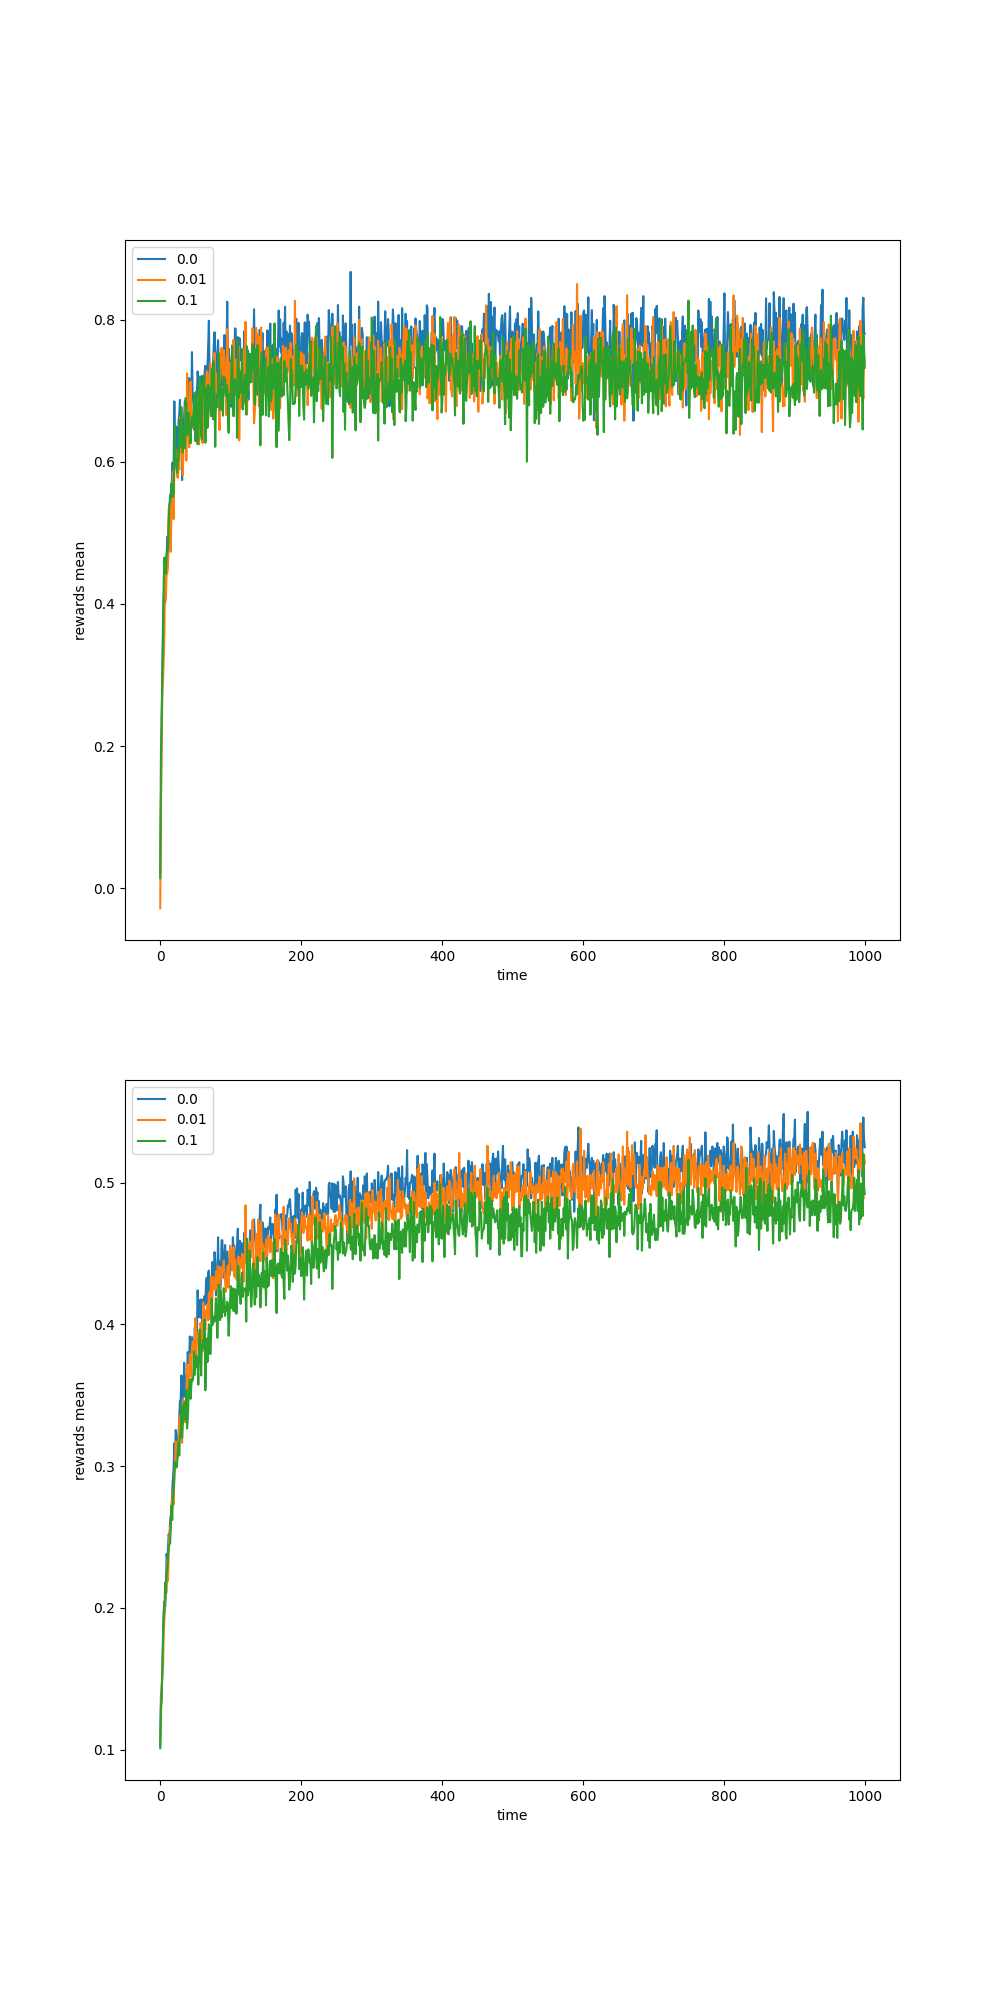
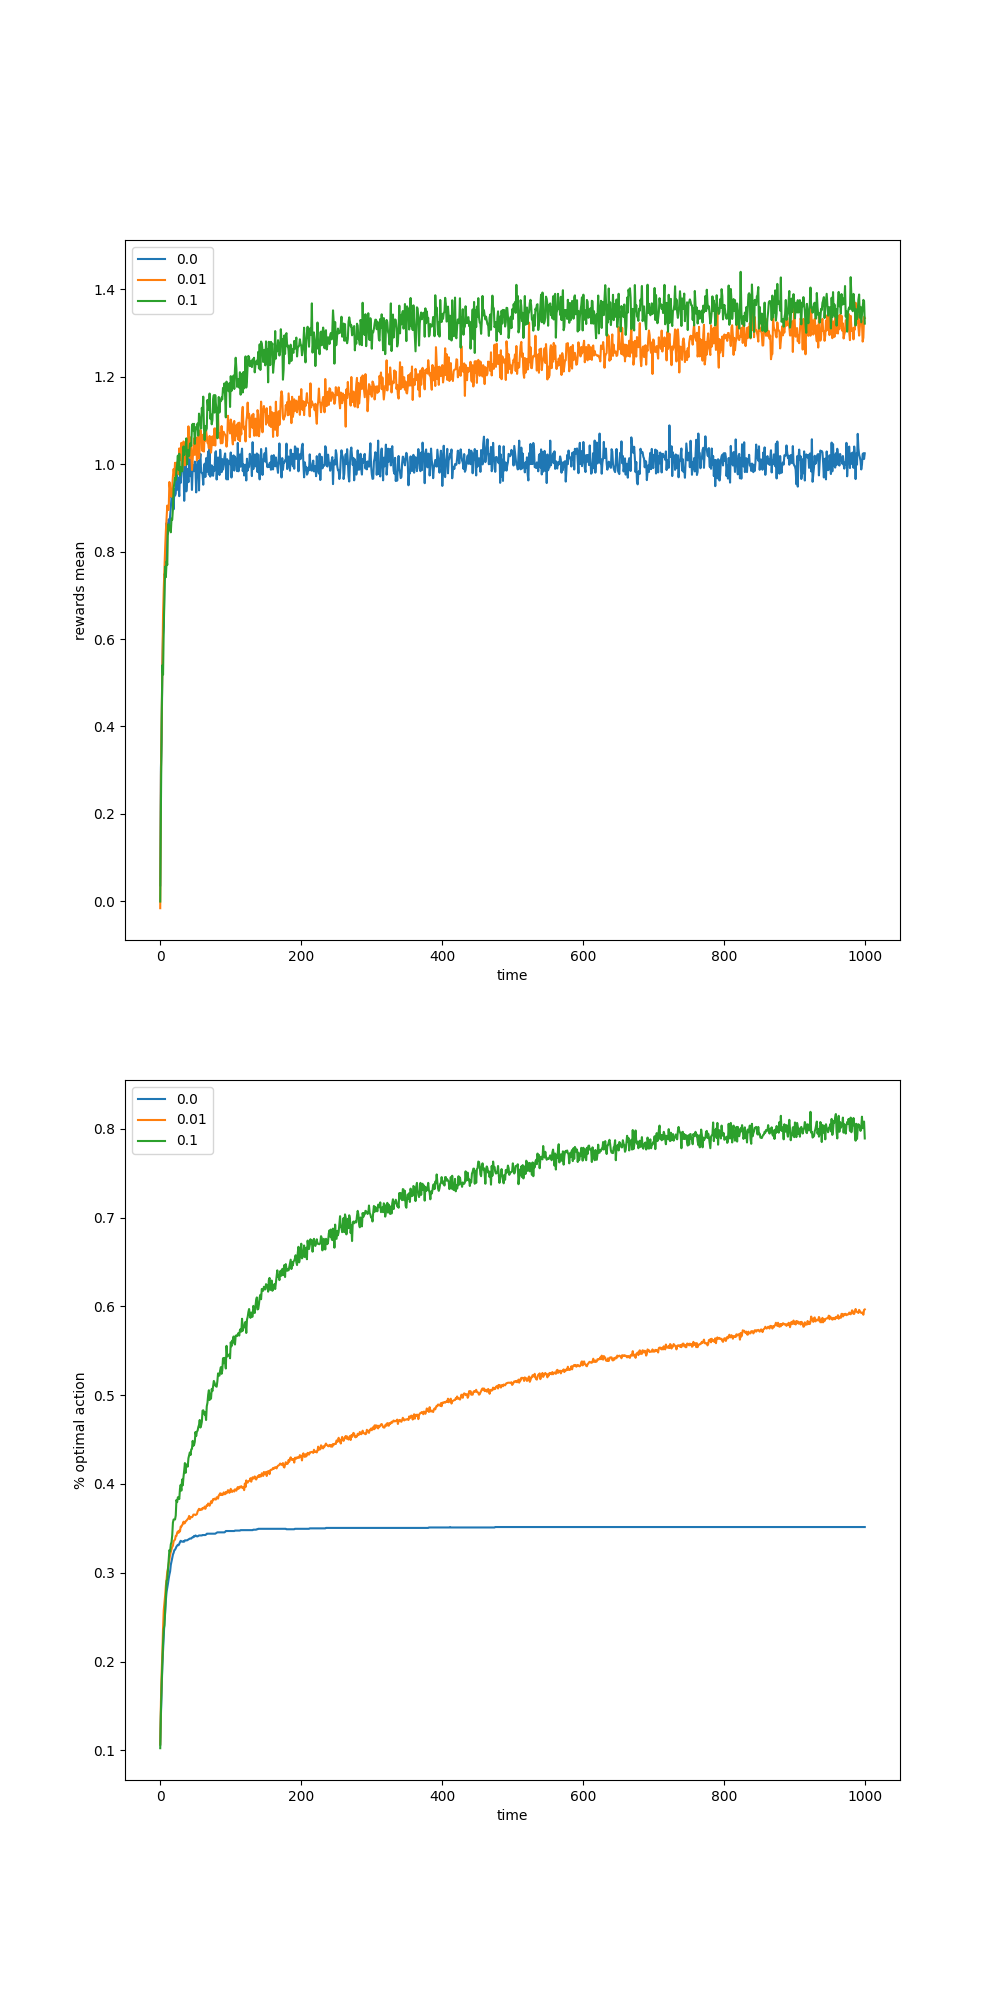
...

diff --git a/Book Sutton/chapter02/bandit_average_v1.py b/Book Sutton/chapter02/bandit_average_v1.py
@@ -1,6 +1,9 @@
+import matplotlib
 import matplotlib.pyplot as plt
 import numpy as np
 from tqdm import tqdm
+
+matplotlib.use('Agg')
 
 
 class Bandit:
@@ -16,7 +19,7 @@ class Bandit:
         self.t = 0
 
     def act(self):
-        if np.random.randn() < self.epsilon:
+        if np.random.rand() < self.epsilon:
             return np.random.choice(np.arange(self.k))
         # if more than one state has similar value, choose one of them randomly
         q_best = np.max(self.q_estimated)
@@ -30,11 +33,10 @@ class Bandit:
         return reward
 
 
-def run(epsilons, runs, time):
-    rewards = np.zeros((len(epsilons), runs, time))
-    is_best_actions = np.zeros(rewards.shape)
-    for i, e in enumerate(epsilons):
-        bandit = Bandit(k_arms=10, epsilon=e)
+def simulate(bandits, runs, time):
+    rewards = np.zeros((len(bandits), runs, time))
+    best_action_counts = np.zeros(rewards.shape)
+    for i, bandit in enumerate(bandits):
         for r in tqdm(range(runs)):
             bandit.reset()
             for t in range(time):
@@ -42,17 +44,16 @@ def run(epsilons, runs, time):
                 reward = bandit.step(action)
                 rewards[i, r, t] = reward
                 if action == bandit.best_action:
-                    is_best_actions[i, r, t] = 1
-    reward_results = np.mean(rewards, axis=1)
-    best_action_results = np.mean(is_best_actions, axis=1)
-    return reward_results, best_action_results
+                    best_action_counts[i, r, t] = 1
+    mean_rewards = np.mean(rewards, axis=1)
+    mean_best_action_counts = np.mean(best_action_counts, axis=1)
+    return mean_best_action_counts, mean_rewards
 
 
-def fig_2_4():
+def fig_2_2():
     epsilons = [0.0, 0.01, 0.1]
-    runs = 2000
-    time = 1000
-    rewards, best_actions = run(epsilons, runs, time)
+    bandits = [Bandit(k_arms=10, epsilon=e) for e in epsilons]
+    best_action_counts, rewards = simulate(bandits, runs=2000, time=1000)
     plt.figure(figsize=(10, 20))
     plt.subplot(2, 1, 1)
     for e, rew in zip(epsilons, rewards):
@@ -61,15 +62,14 @@ def fig_2_4():
     plt.ylabel("rewards mean")
     plt.legend()
     plt.subplot(2, 1, 2)
-    for e, a in zip(epsilons, best_actions):
+    for e, a in zip(epsilons, best_action_counts):
         plt.plot(a, label=e)
     plt.xlabel("time")
-    plt.ylabel("optimal action %")
+    plt.ylabel("% optimal action")
     plt.legend()
-    plt.show()
-    # plt.savefig('../images/fig_2_2.png')
+    plt.savefig('../images/fig_2_2.png')
 
 
 if __name__ == '__main__':
-    fig_2_4()
+    fig_2_2()
 
